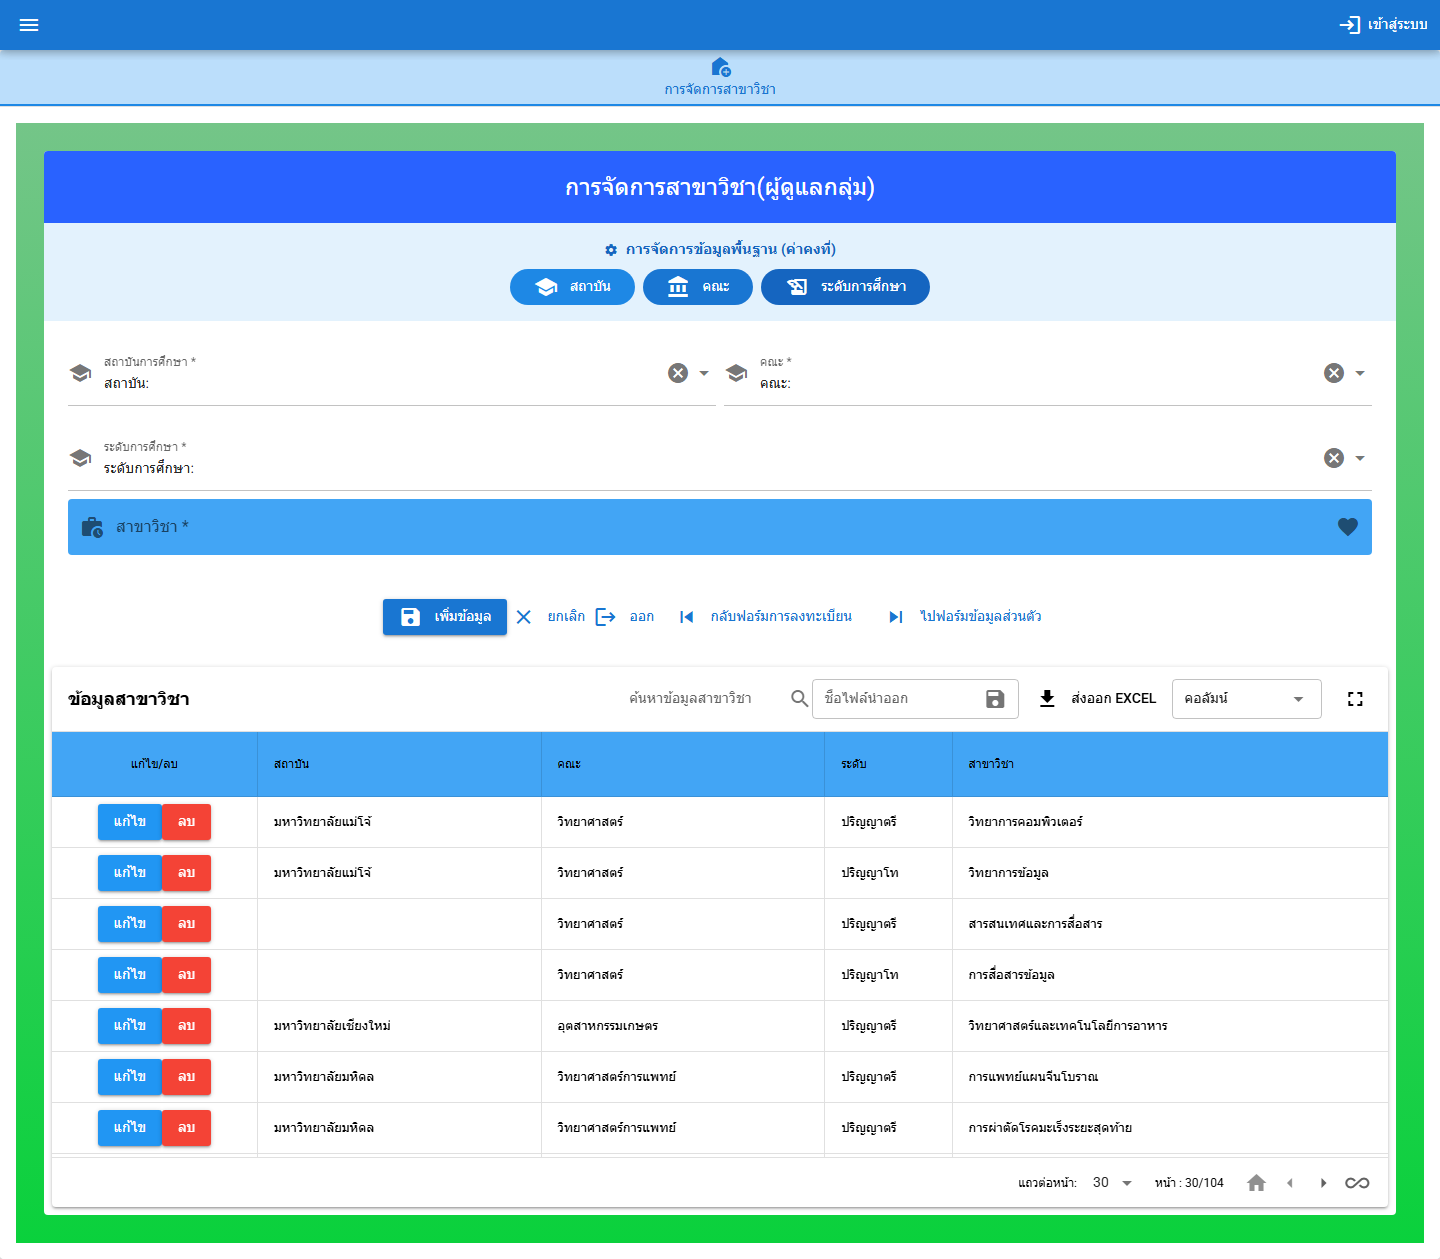
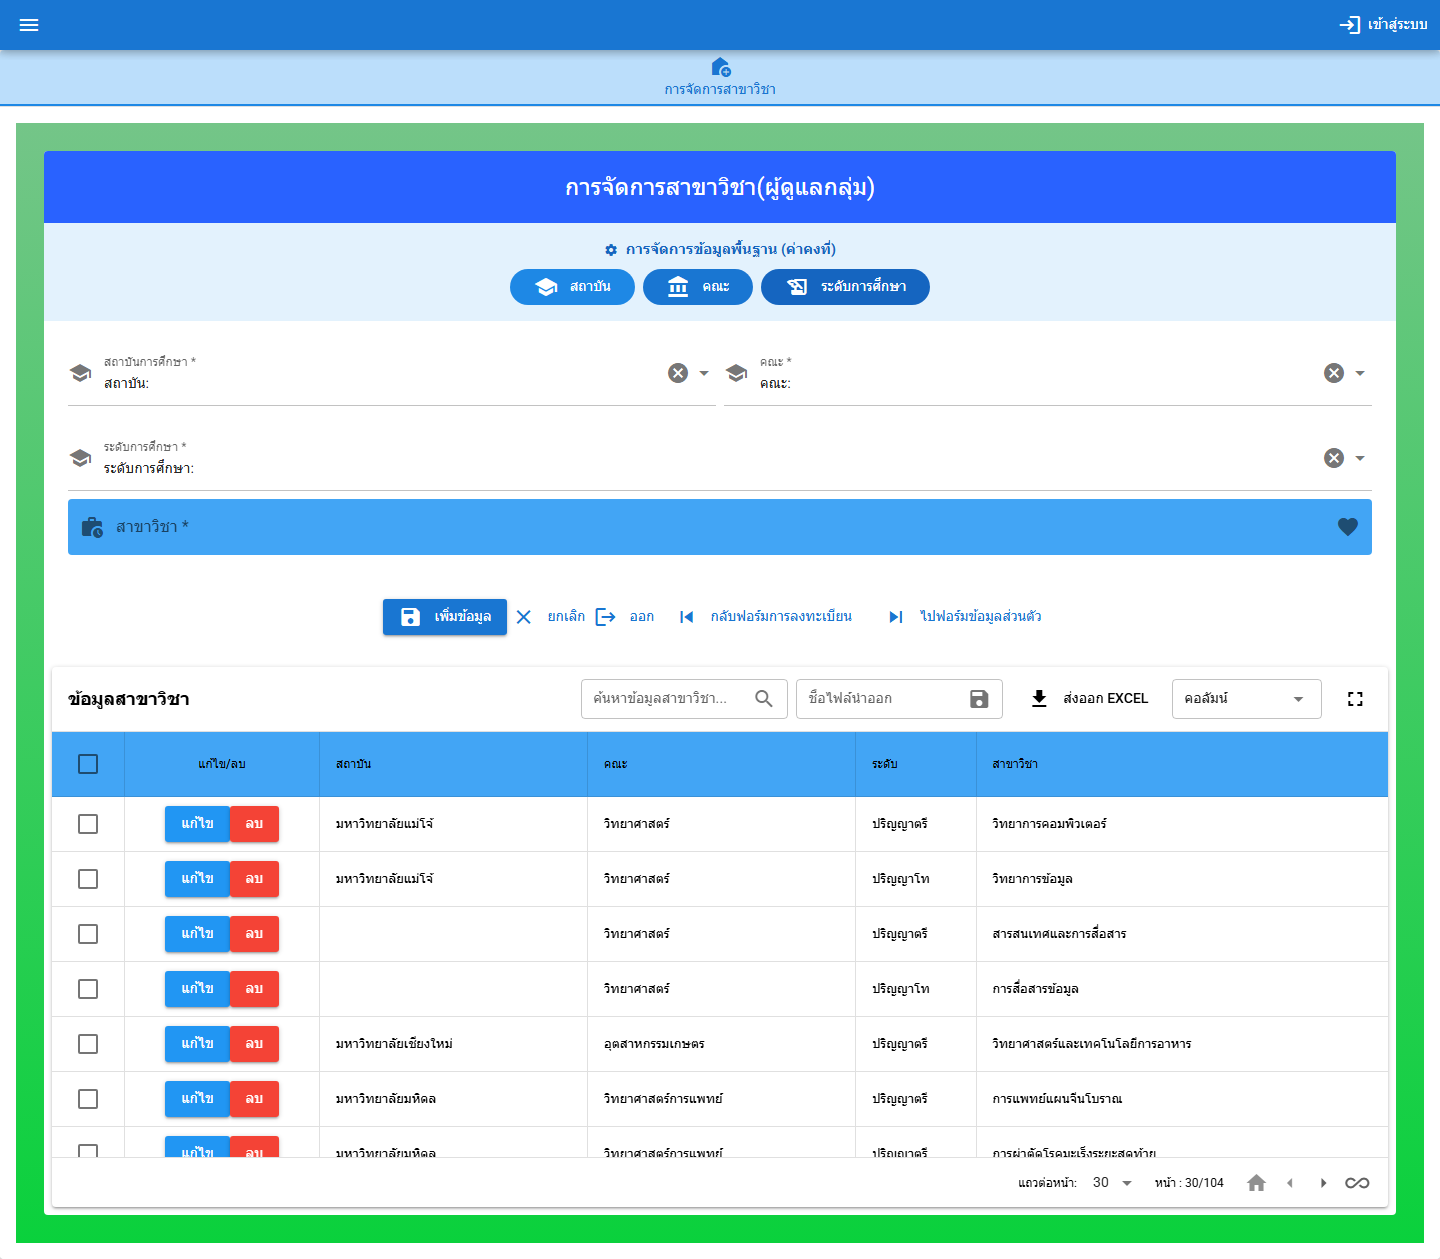
Improve UI/UX for super user forms by enlarging containers and tables for better data visibility

diff --git a/src/pages/super_user_forms/FormPlanCareer.vue b/src/pages/super_user_forms/FormPlanCareer.vue
@@ -3,7 +3,7 @@
     <q-page-container class="bg-grey-2">
       <q-page padding class="items-center justify-center" style="background: linear-gradient(135deg, #74c588 0%, #0ad13c 100%); min-height: 100vh;">
         <div class="full-width">
-          <div class="col-md-8 offset-md-2 col-xs-12 q-pa-xs">
+          <div class="col-md-10 offset-md-1 col-xs-12 q-pa-xs">
             <q-card flat class="bg-white text-black">
               <q-card-section class="bg-blue-14">
                 <h4 class="text-h5 text-white q-my-xs text-center">
@@ -168,10 +168,10 @@
                     <div class="row">
                       <div class="col-md-12 col-xs-12 q-pa-xs">
                         <div class="q-pa-xs">
-                          <q-table title="ข้อมูลส่วนตัว" :rows="plan_careers1" :columns="columns"
+                          <q-table title="ข้อมูลสมาชิก" :rows="plan_careers1" :columns="columns"
                             row-key="plan_career_id" :filter="filter" :loading="loading"
                             selection="multiple" v-model:selected="selected"
-                            :visible-columns="visibleColumns" separator="cell" table-header-style="height: 65px; "
+                            :visible-columns="visibleColumns" separator="cell" flat bordered table-header-style="height: 65px; "
                             table-header-class="bg-primary text-white" :rows-per-page-options="[30, 50, 100, 0]"
                             icon-first-page="home" icon-last-page="all_inclusive" icon-next-page="arrow_right"
                             icon-prev-page="arrow_left" :pagination-label="(firstRowIndex, endRowIndex, totalRowsNumber) => {
@@ -493,7 +493,7 @@ export default {
 
 <style lang="sass">
 .my-sticky-header-table
-  height: 310px
+  height: 500px
   .q-table__top,
   .q-table__bottom,
   thead tr:first-child th

diff --git a/src/pages/super_user_forms/FormQualification.vue b/src/pages/super_user_forms/FormQualification.vue
@@ -3,7 +3,7 @@
     <q-page-container class="bg-grey-2">
       <q-page padding class="items-center justify-center" style="background: linear-gradient(135deg, #74c588 0%, #0ad13c 100%); min-height: 100vh;">
         <div class="full-width">
-          <div class="col-md-8 offset-md-2 col-xs-12 q-pa-xs">
+          <div class="col-md-10 offset-md-1 col-xs-12 q-pa-xs">
             <q-card flat class="bg-white text-black">
               <q-card-section class="bg-blue-14">
                 <h4 class="text-h5 text-white q-my-xs text-center">
@@ -289,7 +289,7 @@
                         <div class="q-pa-xs">
                           <q-table title="ข้อมูลคุณสมบัติ/ทักษะ" :rows="qualifications1" :columns="columns"
                             row-key="qa_plan_career_id" :filter="filter" :loading="loading"
-                            :visible-columns="visibleColumns" separator="cell" class="my-sticky-header-table"
+                            :visible-columns="visibleColumns" separator="cell" class="my-sticky-header-table" flat bordered
                             :rows-per-page-options="[30, 50, 100, 0]" icon-first-page="home"
                             icon-last-page="all_inclusive" icon-next-page="arrow_right" icon-prev-page="arrow_left"
                             :pagination-label="(firstRowIndex, endRowIndex, totalRowsNumber) => {
@@ -694,7 +694,7 @@ export default {
 
 <style lang="sass">
 .my-sticky-header-table
-  height: 310px
+  height: 500px
   .q-table__top,
   .q-table__bottom,
   thead tr:first-child th

diff --git a/src/pages/super_user_forms/FormPlan.vue b/src/pages/super_user_forms/FormPlan.vue
@@ -3,7 +3,7 @@
     <q-page-container class="bg-grey-2">
       <q-page padding class="items-center justify-center" style="background: linear-gradient(135deg, #74c588 0%, #0ad13c 100%); min-height: 100vh;">
         <div class="full-width">
-          <div class="col-md-8 offset-md-2 col-xs-12 q-pa-xs">
+          <div class="col-md-10 offset-md-1 col-xs-12 q-pa-xs">
             <q-card flat class="bg-white text-black">
               <q-card-section class="bg-blue-14">
                 <h4 class="text-h5 text-white q-my-xs text-center">
@@ -352,7 +352,7 @@
                         <div class="q-pa-xs">
                           <q-table title="ข้อมูลการพัฒนาตนเอง" :rows="filteredPlans" :columns="main_columns" row-key="plan_id"
                             :filter="filter" :loading="loading" :visible-columns="visibleColumnsPlan" separator="cell"
-                            selection="multiple" v-model:selected="selected"
+                            selection="multiple" v-model:selected="selected" flat bordered
                             table-header-style="height: 65px; " table-header-class="bg-blue-5"
                             :rows-per-page-options="[30, 50, 100, 0]" icon-first-page="home"
                             icon-last-page="all_inclusive" icon-next-page="arrow_right" icon-prev-page="arrow_left"
@@ -921,7 +921,7 @@ export default {
 
 <style lang="sass">
 .my-sticky-header-table
-  height: 310px
+  height: 500px
   .q-table__top,
   .q-table__bottom,
   thead tr:first-child th

diff --git a/src/pages/super_user_forms/FormSelfAssessment.vue b/src/pages/super_user_forms/FormSelfAssessment.vue
@@ -3,7 +3,7 @@
     <q-page-container class="bg-grey-2">
       <q-page padding class="items-center justify-center" style="background: linear-gradient(135deg, #74c588 0%, #0ad13c 100%); min-height: 100vh;">
         <div class="full-width">
-          <div class="col-md-8 offset-md-2 col-xs-12 q-pa-xs">
+          <div class="col-md-10 offset-md-1 col-xs-12 q-pa-xs">
             <q-card flat class="bg-white text-black">
               <q-card-section class="bg-blue-14">
                 <h4 class="text-h5 text-white q-my-xs text-center">

diff --git a/src/pages/super_user_forms/FormComponent.vue b/src/pages/super_user_forms/FormComponent.vue
@@ -1147,7 +1147,7 @@ export default {
 </script>
 <style lang="sass">
 .my-sticky-header-table
-  height: 310px
+  height: 500px
   .q-table__top,
   .q-table__bottom,
   thead tr:first-child th
